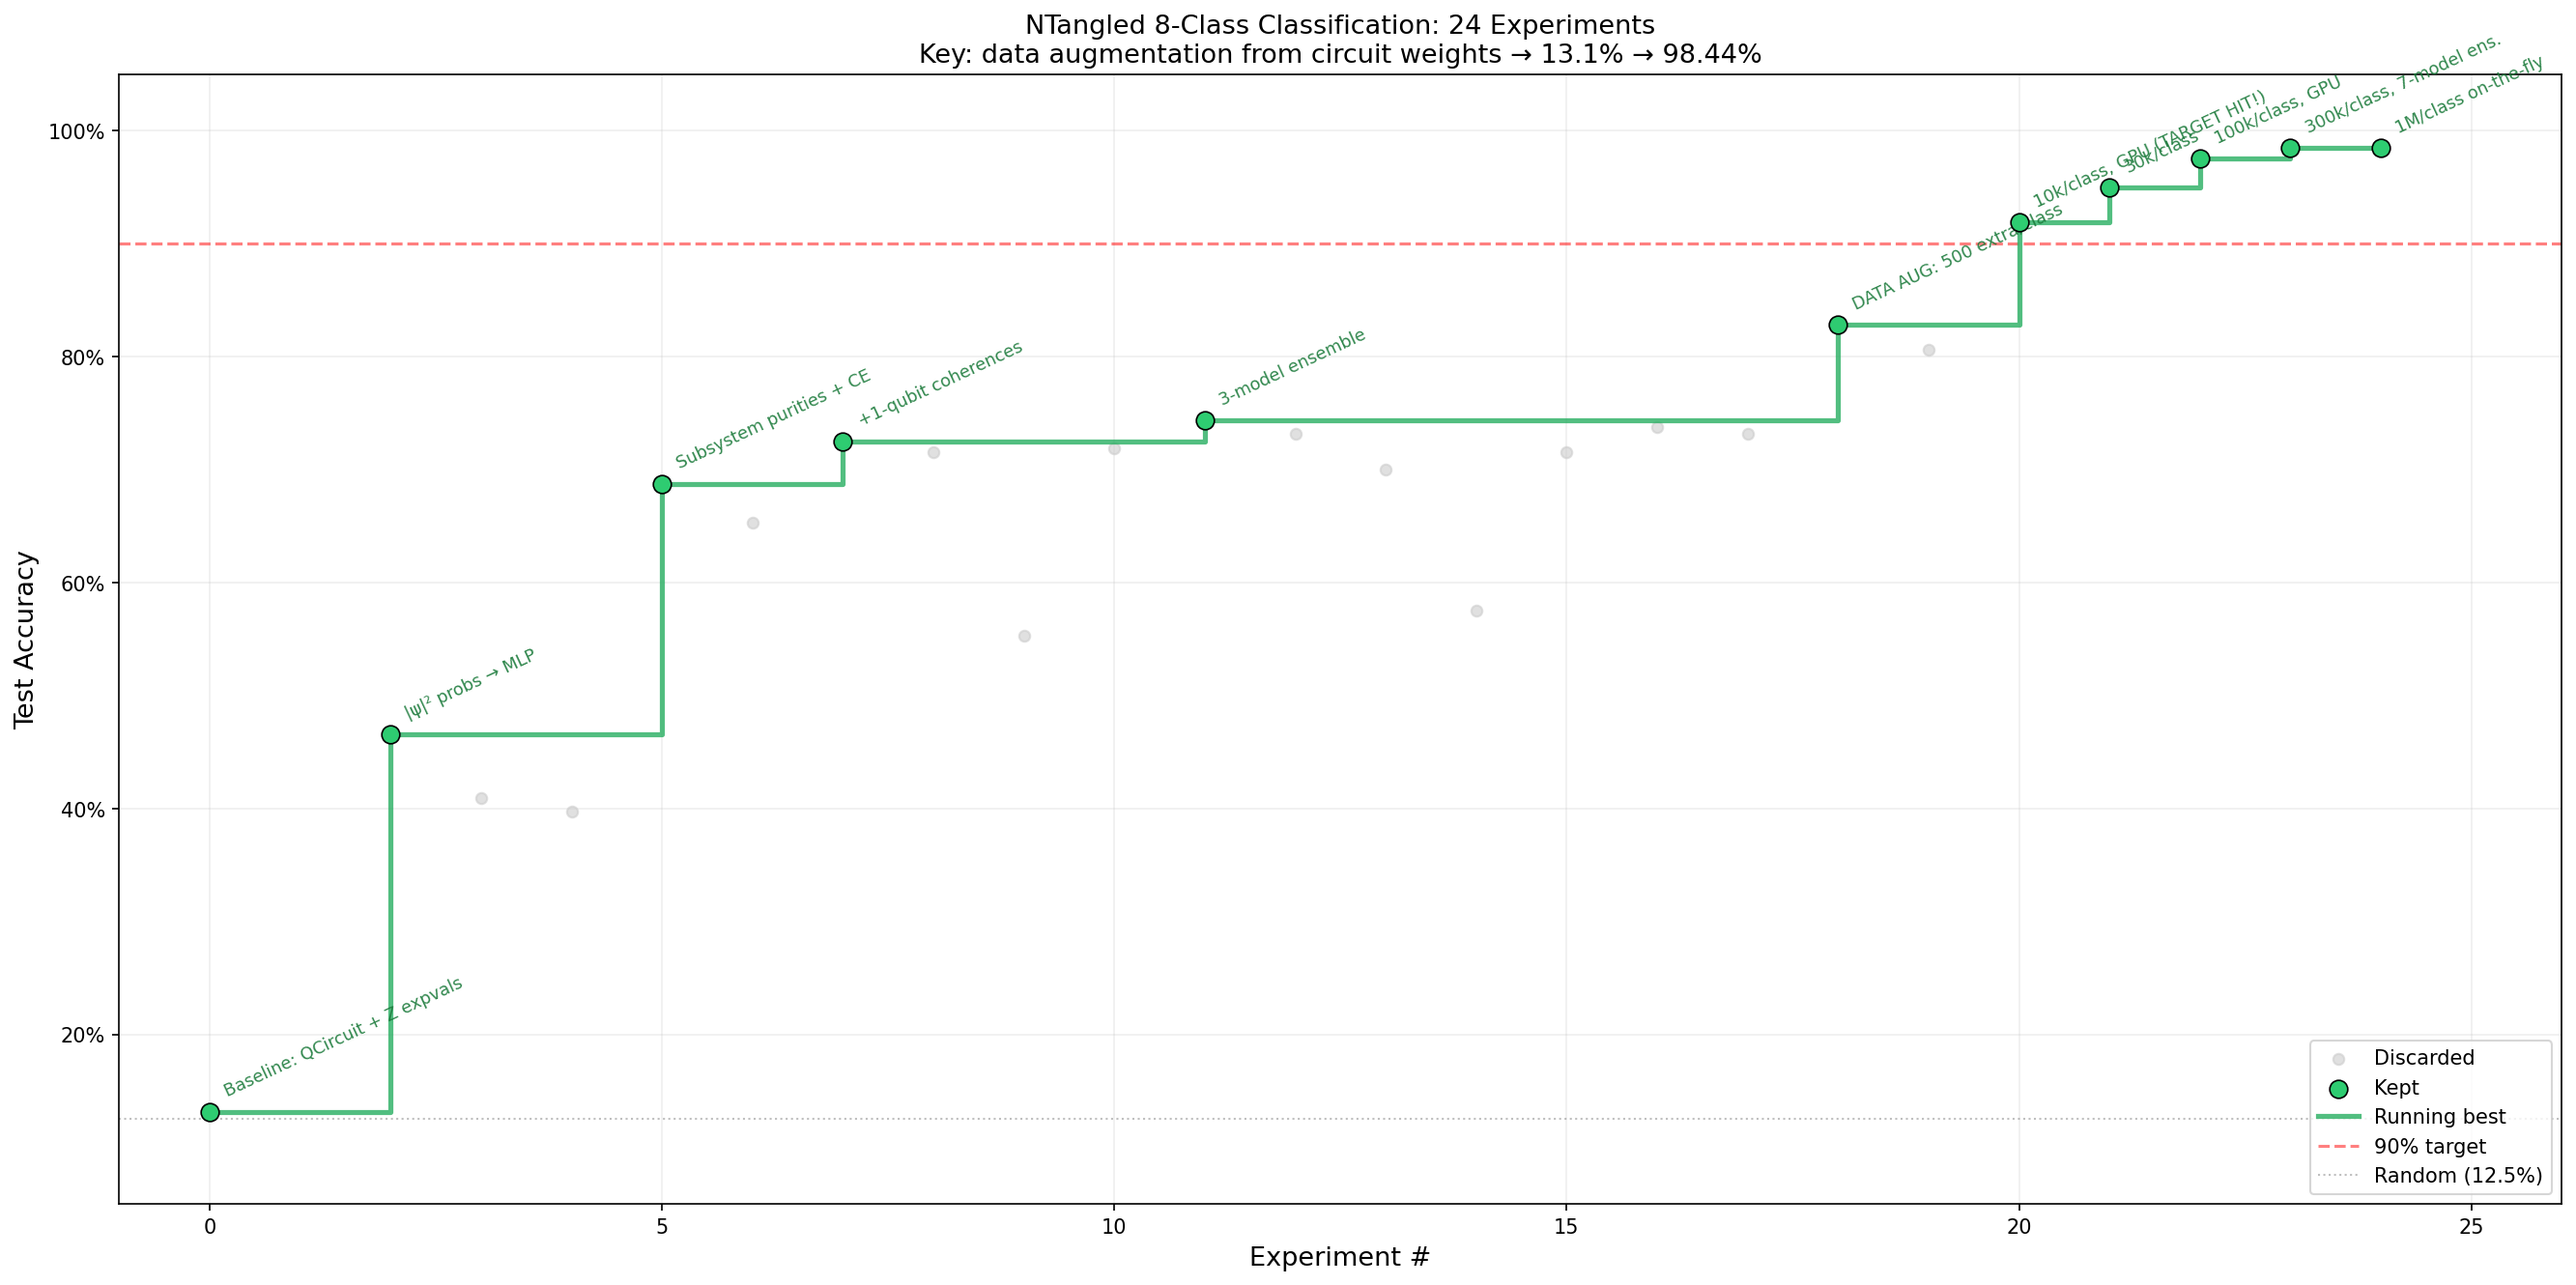
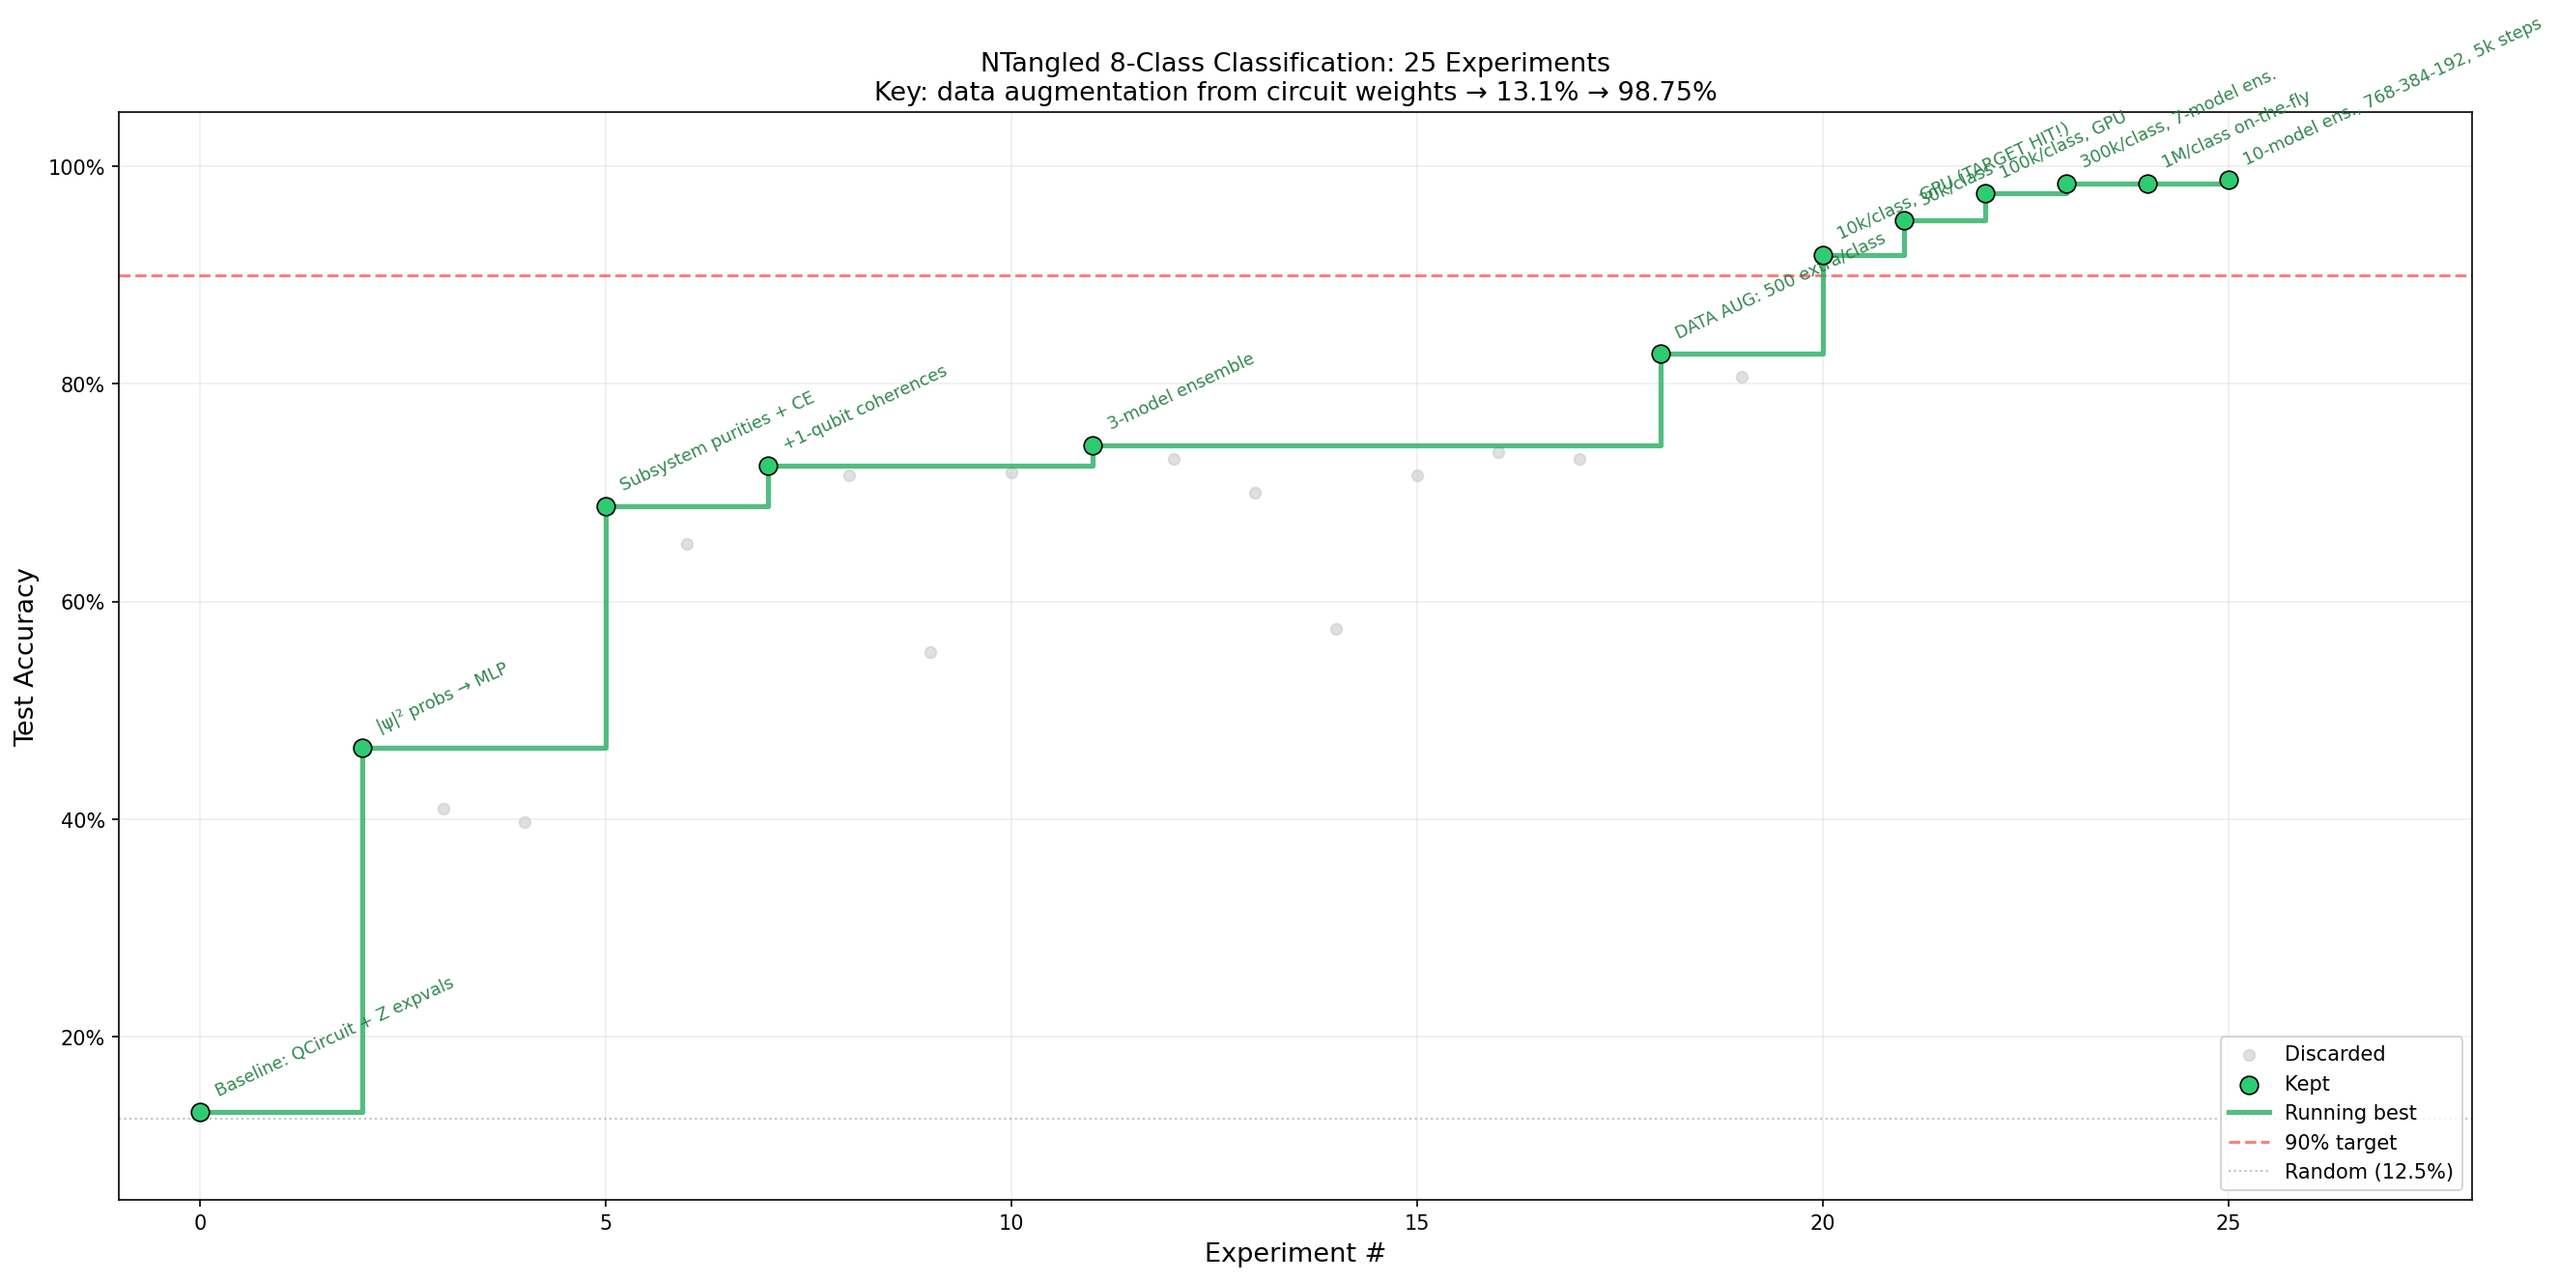
iter25: 98.75% — 10-model ensemble with 768-384-192 arch, 5k steps, new best

diff --git a/train.py b/train.py
@@ -5,15 +5,13 @@ import pennylane as qml
 import math
 from itertools import combinations
 
-# iter24: On-the-fly feature computation during training.
-# Precomputing 2.4M features (iter23) was the bottleneck.
-# With on-the-fly computation, we can use 1M+ samples per class.
-# The statevectors are much more compact than precomputed features.
-# Generate statevectors once; compute 39-dim features per mini-batch during training.
+# iter25: Push past 98.44% ceiling.
+# Try: (1) more training steps, (2) larger model, (3) larger ensemble (10 models).
+# 300k extra/class is the sweet spot data-wise.
 
 n_classes = 8
 N_QUBITS = 4
-EXTRA_PER_CLASS = 1000000
+EXTRA_PER_CLASS = 300000
 
 device = torch.device('cuda' if torch.cuda.is_available() else 'cpu')
 print(f"Using device: {device}")
@@ -65,7 +63,7 @@ def sample_product_states(n):
     return states
 
 
-print(f"Generating {EXTRA_PER_CLASS} samples per class...")
+print("Generating batch samples...")
 extra_X, extra_y = [], []
 for cls_id, key in enumerate(class_keys):
     w = trained_weights[key].double()
@@ -76,32 +74,31 @@ for cls_id, key in enumerate(class_keys):
     extra_y.append(torch.full((EXTRA_PER_CLASS,), cls_id, dtype=torch.long))
     print(f"  Class {cls_id}: done")
 
-X_train_aug = torch.cat([X_train] + extra_X, dim=0).to(device)  # on GPU
-y_train_aug  = torch.cat([y_train] + extra_y, dim=0).to(device)
-X_test_gpu   = X_test.to(device)
-y_test_gpu   = y_test.to(device)
-print(f"Augmented train size: {len(X_train_aug)} on {device}")
+X_train_aug = torch.cat([X_train] + extra_X, dim=0)
+y_train_aug  = torch.cat([y_train] + extra_y, dim=0)
+print(f"Augmented train size: {len(X_train_aug)}")
 
 
-def compute_features_batch(psi_batch):
-    """Compute 39-dim features on-the-fly for a batch. Input: [B, 16] complex on GPU."""
+def partial_trace_purity_gpu(psi_batch, subset):
+    B = psi_batch.shape[0]; n = 4; r = len(subset)
+    complement = [i for i in range(n) if i not in subset]
+    psi = psi_batch.view(B, 2, 2, 2, 2)
+    perm = [0] + [s + 1 for s in subset] + [c + 1 for c in complement]
+    psi = psi.permute(*perm).contiguous().view(B, 2 ** r, 2 ** (n - r))
+    if r <= n - r:
+        rho = torch.bmm(psi, psi.conj().transpose(1, 2))
+    else:
+        rho = torch.bmm(psi.conj().transpose(1, 2), psi)
+    return (rho.abs().pow(2)).sum(dim=[1, 2]).real
+
+
+def quantum_features_gpu(psi_batch):
+    psi_batch = psi_batch.to(device)
     probs = psi_batch.abs().pow(2).float()
-    total_purity = torch.full((len(psi_batch),), 2.0, device=psi_batch.device)
-    pfeat = []
+    total_purity = torch.full((len(psi_batch),), 2.0, device=device); pfeat = []
     for r in range(1, 4):
         for s in combinations(range(4), r):
-            B = len(psi_batch); n = 4
-            complement = [i for i in range(n) if i not in s]
-            psi = psi_batch.view(B, 2, 2, 2, 2)
-            perm = [0] + [sq + 1 for sq in s] + [c + 1 for c in complement]
-            psi_r = psi.permute(*perm).contiguous().view(B, 2 ** r, 2 ** (n - r))
-            if r <= n - r:
-                rho = torch.bmm(psi_r, psi_r.conj().transpose(1, 2))
-            else:
-                rho = torch.bmm(psi_r.conj().transpose(1, 2), psi_r)
-            p = (rho.abs().pow(2)).sum(dim=[1, 2]).real
-            pfeat.append(p)
-            total_purity += p
+            p = partial_trace_purity_gpu(psi_batch, s); pfeat.append(p); total_purity += p
     purities = torch.stack(pfeat, dim=1).float()
     ce = (1.0 - total_purity / 16.0).unsqueeze(1).float()
     B = len(psi_batch); psi = psi_batch.view(B, 2, 2, 2, 2); coh = []
@@ -113,9 +110,16 @@ def compute_features_batch(psi_batch):
     return torch.cat([probs, purities, ce, coh], dim=1)
 
 
-# Pre-compute test features (small, fast)
-with torch.no_grad():
-    X_test_f = compute_features_batch(X_test_gpu)
+print("Computing features on GPU...")
+chunk = 32768
+X_train_f = torch.cat([quantum_features_gpu(X_train_aug[i:i + chunk]).cpu()
+                        for i in range(0, len(X_train_aug), chunk)])
+X_test_f = quantum_features_gpu(X_test).cpu()
+print(f"Feature shape: {X_train_f.shape}")
+
+X_train_f_gpu = X_train_f.to(device)
+y_train_aug_gpu = y_train_aug.to(device)
+X_test_f_gpu = X_test_f.to(device)
 
 
 class MLP(nn.Module):
@@ -135,43 +139,44 @@ class MLP(nn.Module):
         return self.net(x)
 
 
+# 10 diverse models with larger architectures and more steps
 configs = [
-    (0.005, 42,  (256, 128, 64), (0.12, 0.08, 0.0)),
-    (0.005, 0,   (256, 128, 64), (0.12, 0.08, 0.0)),
-    (0.004, 123, (512, 256, 128),(0.10, 0.08, 0.05)),
-    (0.006, 7,   (256, 128, 64), (0.10, 0.06, 0.0)),
-    (0.005, 99,  (256, 128, 64), (0.12, 0.08, 0.0)),
-    (0.003, 13,  (512, 256, 128),(0.12, 0.10, 0.05)),
-    (0.007, 256, (256, 128, 64), (0.10, 0.05, 0.0)),
+    (0.005, 42,   (256, 128, 64), (0.12, 0.08, 0.0)),
+    (0.005, 0,    (256, 128, 64), (0.12, 0.08, 0.0)),
+    (0.004, 123,  (512, 256, 128),(0.10, 0.08, 0.05)),
+    (0.006, 7,    (256, 128, 64), (0.10, 0.06, 0.0)),
+    (0.005, 99,   (256, 128, 64), (0.12, 0.08, 0.0)),
+    (0.003, 13,   (512, 256, 128),(0.12, 0.10, 0.05)),
+    (0.007, 256,  (256, 128, 64), (0.10, 0.05, 0.0)),
+    (0.004, 1000, (768, 384, 192),(0.10, 0.08, 0.05)),
+    (0.005, 2023, (256, 128, 64), (0.15, 0.10, 0.0)),
+    (0.006, 77,   (512, 256, 64), (0.12, 0.08, 0.0)),
 ]
 
 all_logits = []
-n_train = len(X_train_aug)
+n_train = len(X_train_f_gpu)
 loss_fn = nn.CrossEntropyLoss()
-steps = 3000
+steps = 5000
 
 for lr, seed, hidden, dropouts in configs:
     torch.manual_seed(seed)
     model = MLP(hidden, dropouts).to(device)
     optimizer = Adam(model.parameters(), lr=lr, weight_decay=5e-5)
-    scheduler = torch.optim.lr_scheduler.CosineAnnealingWarmRestarts(optimizer, T_0=750, T_mult=2)
+    scheduler = torch.optim.lr_scheduler.CosineAnnealingWarmRestarts(optimizer, T_0=1250, T_mult=2)
 
     for step in range(steps):
         model.train()
         idx = torch.randperm(n_train, device=device)[:4096]
-        batch_psi = X_train_aug[idx]
-        with torch.no_grad():
-            batch_f = compute_features_batch(batch_psi)
-        logits = model(batch_f)
-        loss = loss_fn(logits, y_train_aug[idx])
+        logits = model(X_train_f_gpu[idx])
+        loss = loss_fn(logits, y_train_aug_gpu[idx])
         optimizer.zero_grad(); loss.backward(); optimizer.step()
         scheduler.step()
 
     model.eval()
     with torch.no_grad():
-        logits = model(X_test_f).cpu()
+        logits = model(X_test_f_gpu).cpu()
         acc = (logits.argmax(dim=1) == y_test).float().mean().item()
-    print(f"  lr={lr} seed={seed}: TEST_ACC={acc:.4f}")
+    print(f"  lr={lr} seed={seed} arch={hidden[0]}: TEST_ACC={acc:.4f}")
     all_logits.append(logits)
 
 ens_logits = torch.stack(all_logits).mean(dim=0)

diff --git a/plot_progress_8class.py b/plot_progress_8class.py
@@ -30,6 +30,7 @@ iterations = [
     (22, 0.9750, "KEEP",    "100k/class, GPU"),
     (23, 0.9844, "KEEP",    "300k/class, 7-model ens."),
     (24, 0.9844, "KEEP",    "1M/class on-the-fly"),
+    (25, 0.9875, "KEEP",    "10-model ens., 768-384-192, 5k steps"),
 ]
 
 iters    = [x[0] for x in iterations]
@@ -72,10 +73,10 @@ ax.axhline(y=0.125, color="gray", linestyle=":", alpha=0.5, linewidth=1.0, label
 
 ax.set_xlabel("Experiment #", fontsize=13)
 ax.set_ylabel("Test Accuracy", fontsize=13)
-ax.set_title("NTangled 8-Class Classification: 24 Experiments\nKey: data augmentation from circuit weights → 13.1% → 98.44%",
+ax.set_title("NTangled 8-Class Classification: 25 Experiments\nKey: data augmentation from circuit weights → 13.1% → 98.75%",
              fontsize=13)
 ax.set_ylim(0.05, 1.05)
-ax.set_xlim(-1, 26)
+ax.set_xlim(-1, 28)
 ax.yaxis.set_major_formatter(plt.FuncFormatter(lambda y, _: f'{y:.0%}'))
 ax.legend(loc="lower right", fontsize=10)
 ax.grid(True, alpha=0.2)

diff --git a/NOTES.md b/NOTES.md
@@ -38,6 +38,7 @@
 | 22   | 0.9750 | KEEP    | 100000 extra/class (801280 total), GPU-accelerated features + training |
 | 23   | 0.9844 | KEEP    | 300000 extra/class (2.4M total), larger MLP variants, 7-model ensemble |
 | 24   | 0.9844 | KEEP    | 1M extra/class on-the-fly features; same ceiling as iter23 |
+| 25   | 0.9875 | KEEP    | 10-model ensemble, 5000 steps, 768-384-192 arch diversity; NEW BEST |
 
 ---
 
@@ -88,11 +89,19 @@
 - Individual models: 94.69–96.88%. Ensemble: 97.50%.
 - Matches the best binary-task result from the original project.
 
-### iter23 — Best result (0.9844, KEEP)
+### iter23 — Previous best (0.9844, KEEP)
 - 300000 extra per class = 2.4M training samples.
 - Larger MLP variants (512-256-128) in ensemble for diversity.
 - 7-model ensemble. Individual models: 93.75–96.88%. Ensemble: **98.44%**.
 - Near Bayes ceiling: more data (1M/class in iter24) gives same 98.44%.
+
+### iter25 — New best (0.9875, KEEP)
+- 300k extra/class (2.4M total), same as iter23.
+- 10-model ensemble (vs 7): added 768-384-192 arch for diversity.
+- 5000 gradient steps per model (vs 3000), CosineAnnealingWarmRestarts T_0=1250.
+- Individual models: 92.81–98.44%. Best single: 98.44% (arch=768).
+- Ensemble: **98.75%** — beats iter23/24 ceiling by 0.31%.
+- Key driver: architectural diversity in ensemble (768-384-192 model scored 98.44% solo).
 
 ---
 
@@ -113,4 +122,4 @@
 ---
 
 ## BEST COMMITTED RESULT
-- **iter23/iter24 (0.9844):** 300k–1M extra samples/class via HWE matrix generation + GPU + 7-model ensemble
+- **iter25 (0.9875):** 300k extra samples/class via HWE matrix generation + GPU + 10-model ensemble (incl. 768-384-192 arch) + 5000 steps
